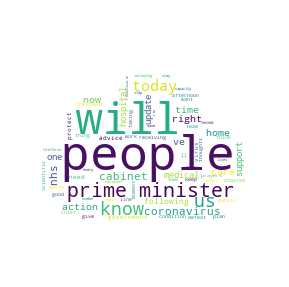
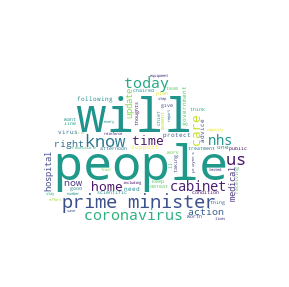
adds ve to stoplist

Changed region(s): [[0.1246, 0.2509, 0.872, 0.7805]]

diff --git a/word_cloud_maker.py b/word_cloud_maker.py
@@ -12,6 +12,11 @@ title2 = "8th April"
 text3 = open("./texts/nine_april.txt", "r").read().lower()
 title3 = "9th April"
 
+text4 = open("./texts/nine_april.txt", "r").read().lower()
+title4 = "9th April 2"
+
+STOPWORDS.add("ve")
+
 def create_word_cloud(string, title):
    maskArray = np.array(Image.open("cloud.png"))
    cloud = WordCloud(background_color = "white", max_words = 200, mask = maskArray, stopwords = set(STOPWORDS))

diff --git a/README.md b/README.md
@@ -8,12 +8,6 @@ A collection of word clouds taken from the speeches given by UK Government minis
   <img src="9thAprilwordCloud.png" title="8th April" alt="9th April: Dominic Raab" width="425" height="350"/>
 </p>
 
-
-These word clouds are taken from transcripts of the opening speeches given by the ministers. The transcripts do not include:
-* speeches given by government advisers
-* the question-and-answer sessions involving the press
-* any speeches at the end of the briefing.
-
 ---
 
 ## Setup and Packages
@@ -31,6 +25,10 @@ The list of stopwords (words that are excluded from the clouds) is fairly short 
 
 The choice of speeches was determined by the availability of transcripts. Plus, due to time constraints, I limited myself to briefings from the past week. These choices mean that I only have texts from two people, Foreign Secretary Dominic Raab (two texts) and Chancellor Rishi Sunak (one text).
 
+The transcripts do not include:
+* speeches given by government advisers
+* the question-and-answer sessions involving the press
+* any speeches at the end of the briefing.
 ---
 
 ## Sources
@@ -48,7 +46,7 @@ __9th April: Foreign Secretary Dominic Raab__
 ## Results
 The most prominent word across the three speeches is `people`. This was a surprise to me. I had thought that terms about the virus would be more prominent. The lack of prominence of direct reference to medical matters was also a surprise. `Virus`, `coronavirus`, NHS` and `test` are there, but they are not dominant. That may be due to the fact that the speeches were by the Foreign Secretary and Chancellor, rather than the Health Secretary.
 
-The inclusion of the word `ve` on 9th April is odd and I don't know why it has appeared. `you've`, `we've`, `I've` and `they've` are in the list of excluded words, so these don't seem to be the reason, and I haven't found anything in the text to explain why `ve` was in the cloud.
+The inclusion of the word `ve` on 9th April was odd and I don't know why it appeared. `you've`, `we've`, `I've` and `they've` wee in the list of excluded words, so these don't seem to be the reason, and I haven't found anything in the text to explain why `ve` was in the cloud. As a short-term fix, I add `ve` to the list of excluded words.
 
 ---
 
